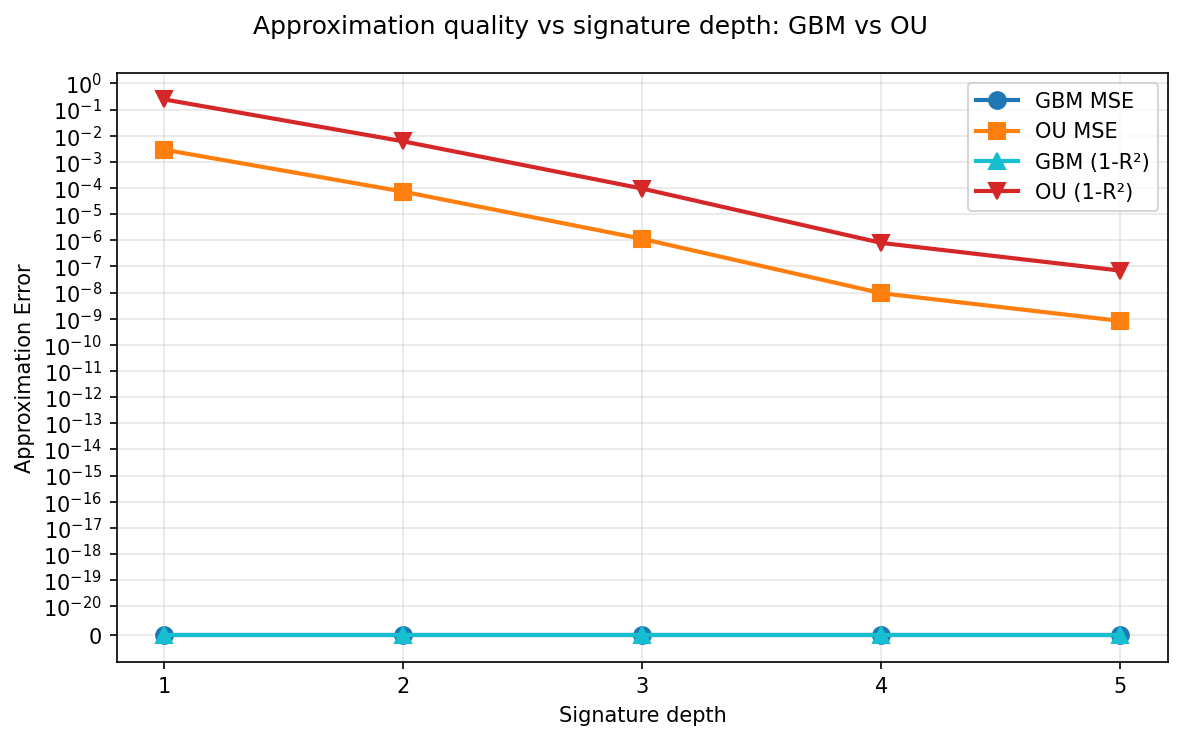
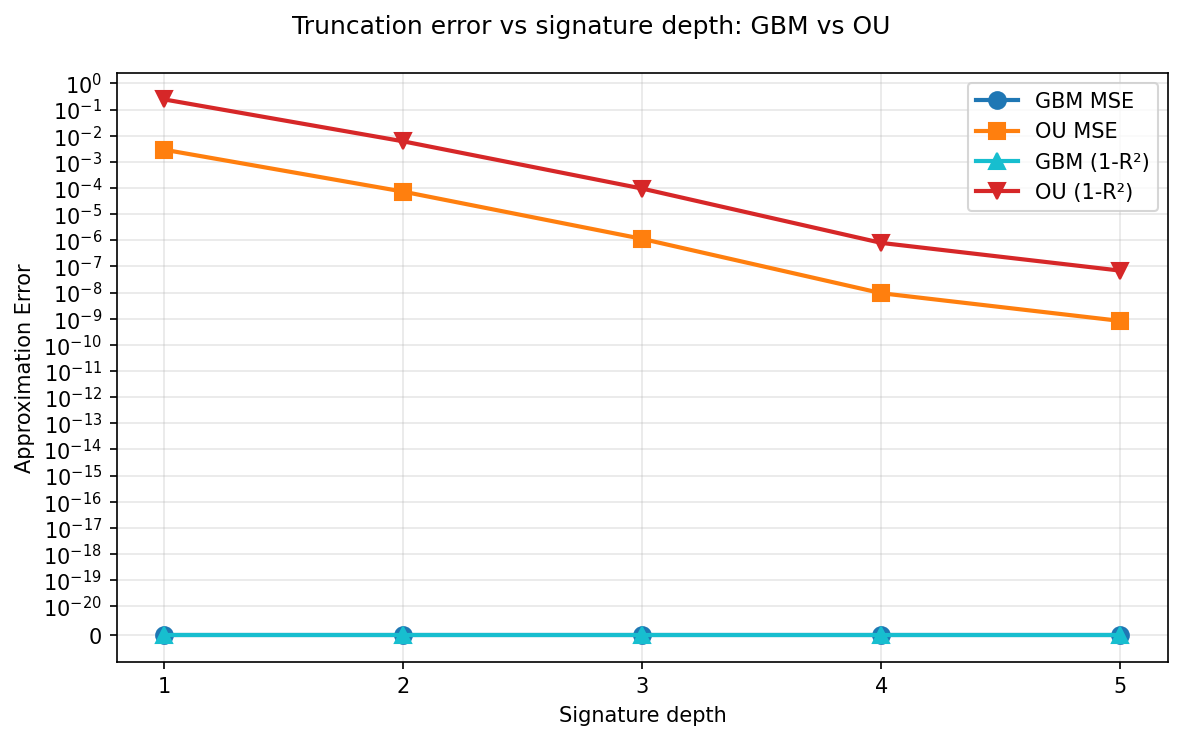
Updated calibrate_sde_example.py and train_signature_model.py

Changed region(s): [[0.213, 0.0, 0.7912, 0.0622]]

diff --git a/scripts/train_signature_model.py b/scripts/train_signature_model.py
@@ -1,29 +1,16 @@
 # scripts/train_signature_model.py
-import numpy as np
-
 from output import SAVE_PATH
-from signature_vol.exact.signature import Signature  # your class file
+from signature_vol.exact.signature import Signature
 
-paths = [
-    np.random.randn(100, 2),  # example 2D paths
-    np.random.randn(120, 2),
-]
-
-signatures = [Signature.from_path(path, level=3) for path in paths]
-
-# Example: access signature array of the first path
-print(signatures[0].array)
-
-
-import iisignature  # type: ignore
-import matplotlib
 import numpy as np
-import yfinance as yf
 from sklearn.linear_model import LinearRegression
-from sklearn.metrics import mean_squared_error, r2_score
 from sklearn.model_selection import TimeSeriesSplit
 from sklearn.pipeline import Pipeline
 from sklearn.preprocessing import StandardScaler
+from sklearn.metrics import mean_squared_error, r2_score
+import yfinance as yf
+
+import matplotlib
 
 matplotlib.use("Agg")
 
@@ -43,6 +30,7 @@ window = 50  # length of path (timesteps)
 horizon = 10  # predict next-horizon realized vol?
 paths = []
 targets = []
+target_dates = []
 for i in range(len(df) - window - horizon + 1):
     segment = df["logret"].values[i : i + window]
     # richer 3D path: returns, abs(returns), cumulative sum
@@ -52,8 +40,11 @@ for i in range(len(df) - window - horizon + 1):
     realized_vol = np.sqrt(np.mean(fut**2))
     targets.append(np.sqrt(np.mean(fut**2)))  # RMSE-style realized vol
     paths.append(path)
+    # Store the date corresponding to this target (end of the forecast horizon)
+    target_dates.append(df["timestamp"].iloc[i + window + horizon - 1])
 
 targets = np.array(targets)
+target_dates = np.array(target_dates)
 
 # --- 3. compute signatures for each path ---
 # --- 3. Predict log-vol instead of vol ---
@@ -69,52 +60,102 @@ import matplotlib.pyplot as plt
 for depth in truncation_levels:
     print(f"\nProcessing truncation level {depth}...")
 
-    # compute signature length needed and create a signature transform
-    sig_dim = paths[0].shape[1]
-    sig_len = iisignature.siglength(sig_dim, depth)
-    X = np.vstack([iisignature.sig(p, depth) for p in paths])
+    # Compute signatures using Signature.from_path
+    signatures = [Signature.from_path(p, depth) for p in paths]
+    X = np.vstack([sig.array for sig in signatures])
 
     # --- 4. Train a model with time-series cross-validation ---
     tscv = TimeSeriesSplit(n_splits=5)
     model = Pipeline([("scale", StandardScaler()), ("clf", LinearRegression())])
 
     mse_scores = []
+    all_predictions = np.full(len(targets), np.nan)
     for train_idx, test_idx in tscv.split(X):
-        model.fit(X[train_idx], targets[train_idx])
-        pred = model.predict(X[test_idx])
+        model.fit(X[train_idx], log_targets[train_idx])
+        pred_log = model.predict(X[test_idx])
+        pred = np.exp(pred_log)
+        all_predictions[test_idx] = pred
         mse_scores.append(mean_squared_error(targets[test_idx], pred))
 
     print(
         f"Truncation level {depth} - CV MSE: {np.mean(mse_scores):.6f}, std: {np.std(mse_scores):.6f}"
     )
 
-    # Final fit on full data
-    model.fit(X, log_targets)
-    pred_log = model.predict(X)
-    pred = np.exp(pred_log)
-
-    # Visualization
-    plt.figure(figsize=(10, 5))
-    plt.xlim(0, 200)
-    plt.plot(targets, label="Actual realized volatility", color="black", linewidth=2)
-    plt.plot(
-        pred,
-        label=f"Predicted volatility (truncation level {depth})",
+    # Visualization: Out-of-sample forecasts from cross-validation
+    fig2, ax2 = plt.subplots(figsize=(12, 6))
+    ax2.plot(
+        target_dates,
+        targets,
+        label="Actual realized volatility",
+        color="black",
+        linewidth=2,
+        alpha=0.7,
+    )
+    ax2.plot(
+        target_dates,
+        all_predictions,
+        label=f"Out-of-sample forecast (truncation level {depth})",
         color="dodgerblue",
         linewidth=2,
         alpha=0.8,
     )
-    plt.xlabel("Time index")
-    plt.ylabel("Volatility")
-    plt.title(
-        f"Signature-based Volatility Model vs Actual Volatility (Truncation Level {depth})"
-    )
-    plt.legend()
-    plt.grid(True, alpha=0.3)
 
-    save_path = SAVE_PATH / f"aapl_pure_data_calibration_level_{depth}.png"
-    plt.savefig(save_path, dpi=150, bbox_inches="tight")
-    print(f"Saved plot to {save_path}")
+    # Mark the fold boundaries with alternating blue shades for training periods
+    fold_sizes = []
+    for train_idx, test_idx in tscv.split(X):
+        fold_sizes.append((train_idx[0], train_idx[-1], test_idx[0], test_idx[-1]))
+
+    # Define two alternating shades of blue
+    blue_colors = ["lightblue", "cornflowerblue"]
+
+    for i, (train_start, train_end, test_start, test_end) in enumerate(fold_sizes):
+        # Mark the start of each test fold with a dashed line
+        ax2.axvline(
+            x=target_dates[test_start],
+            color="gray",
+            linestyle="--",
+            alpha=0.5,
+            linewidth=1,
+        )
+
+        # Add small tick marks at the end of each training regime
+        ax2.axvline(
+            x=target_dates[train_end],
+            color="darkblue",
+            linestyle="-",
+            alpha=0.6,
+            linewidth=1.5,
+        )
+
+        color = blue_colors[i % 2]
+        if i == 0:
+            ax2.axvspan(
+                target_dates[train_start],
+                target_dates[train_end],
+                alpha=0.15,
+                color=color,
+                label="Training folds",
+            )
+        else:
+            ax2.axvspan(
+                target_dates[train_start],
+                target_dates[train_end],
+                alpha=0.15,
+                color=color,
+            )
+
+    ax2.set_xlabel("Date")
+    ax2.set_ylabel("Volatility")
+    ax2.set_title(
+        f"Out-of-Sample Volatility Forecasts (5-Fold CV, Level {depth})\nMean MSE: {np.mean(mse_scores):.6f}"
+    )
+    ax2.legend()
+    ax2.grid(True, alpha=0.3)
+    fig2.autofmt_xdate()
+
+    save_path_oos = SAVE_PATH / f"aapl_pure_data_forecast_oos_level_{depth}.png"
+    plt.savefig(save_path_oos, dpi=150, bbox_inches="tight")
+    print(f"Saved out-of-sample forecast plot to {save_path_oos}")
 
 # Approximation quality
 rng = np.random.default_rng(0)
@@ -143,12 +184,8 @@ targets = np.array(targets)
 
 # helper: given depth m, build signature feature matrix
 def build_sig_features(paths, depth):
-    d = paths[0].shape[1]
-    feat_dim = iisignature.siglength(d, depth)
-    X = np.zeros((len(paths), feat_dim))
-    for i, p in enumerate(paths):
-        p = np.asarray(p, dtype=float)  # <--- ensure numeric array
-        X[i, :] = iisignature.sig(p, depth)
+    signatures = [Signature.from_path(p, depth) for p in paths]
+    X = np.vstack([sig.array for sig in signatures])
     return X
 
 

diff --git a/scripts/calibrate_sde_example.py b/scripts/calibrate_sde_example.py
@@ -30,6 +30,7 @@ window = 50
 horizon = 10
 paths = []
 targets = []
+target_dates = []
 
 for i in range(len(df) - window - horizon + 1):
     segment = df["logret"].values[i : i + window]
@@ -38,8 +39,11 @@ for i in range(len(df) - window - horizon + 1):
     realized_vol = np.sqrt(np.mean(fut**2))
     targets.append(realized_vol)
     paths.append(path)
+    # Store the date corresponding to this target (end of the forecast horizon)
+    target_dates.append(df["timestamp"].iloc[i + window + horizon - 1])
 
 targets = np.array(targets)
+target_dates = np.array(target_dates)
 
 # Compute signatures using calibrate_signature_sde
 eps = 1e-8
@@ -71,39 +75,90 @@ for sig_order in truncation_levels:
     model = Pipeline([("scale", StandardScaler()), ("clf", LinearRegression())])
 
     mse_scores = []
+    all_predictions = np.full(len(targets), np.nan)
     for train_idx, test_idx in tscv.split(X):
-        model.fit(X[train_idx], targets[train_idx])
-        pred = model.predict(X[test_idx])
+        model.fit(X[train_idx], log_targets[train_idx])
+        pred_log = model.predict(X[test_idx])
+        pred = np.exp(pred_log)
+        all_predictions[test_idx] = pred
         mse_scores.append(mean_squared_error(targets[test_idx], pred))
 
     print(
         f"Truncation level {sig_order} - CV MSE: {np.mean(mse_scores):.6f}, std: {np.std(mse_scores):.6f}"
     )
 
-    # Final fit on full data
-    model.fit(X, log_targets)
-    pred_log = model.predict(X)
-    pred = np.exp(pred_log)
-
-    # Visualization
-    plt.figure(figsize=(10, 5))
-    plt.xlim(0, 200)
-    plt.plot(targets, label="Actual realized volatility", color="black", linewidth=2)
-    plt.plot(
-        pred,
-        label=f"Predicted volatility (truncation level {sig_order})",
+    # Visualization: Out-of-sample forecasts from cross-validation
+    fig2, ax2 = plt.subplots(figsize=(12, 6))
+    ax2.plot(
+        target_dates,
+        targets,
+        label="Actual realized volatility",
+        color="black",
+        linewidth=2,
+        alpha=0.7,
+    )
+    ax2.plot(
+        target_dates,
+        all_predictions,
+        label=f"Out-of-sample forecast (truncation level {sig_order})",
         color="dodgerblue",
         linewidth=2,
         alpha=0.8,
     )
-    plt.xlabel("Time index")
-    plt.ylabel("Volatility")
-    plt.title(
-        f"Signature-SDE Volatility Model vs Actual Volatility (Truncation Level {sig_order})"
-    )
-    plt.legend()
-    plt.grid(True, alpha=0.3)
 
-    save_path = SAVE_PATH / f"aapl_signature_calibration_level_{sig_order}.png"
-    plt.savefig(save_path, dpi=150, bbox_inches="tight")
-    print(f"Saved plot to {save_path}")
+    # Mark the fold boundaries with alternating blue shades for training periods
+    fold_sizes = []
+    for train_idx, test_idx in tscv.split(X):
+        fold_sizes.append((train_idx[0], train_idx[-1], test_idx[0], test_idx[-1]))
+
+    # Define two alternating shades of blue
+    blue_colors = ["lightblue", "cornflowerblue"]
+
+    for i, (train_start, train_end, test_start, test_end) in enumerate(fold_sizes):
+        # Mark the start of each test fold with a dashed line
+        ax2.axvline(
+            x=target_dates[test_start],
+            color="gray",
+            linestyle="--",
+            alpha=0.5,
+            linewidth=1,
+        )
+
+        # Add small tick marks at the end of each training regime
+        ax2.axvline(
+            x=target_dates[train_end],
+            color="darkblue",
+            linestyle="-",
+            alpha=0.6,
+            linewidth=1.5,
+        )
+
+        color = blue_colors[i % 2]
+        if i == 0:
+            ax2.axvspan(
+                target_dates[train_start],
+                target_dates[train_end],
+                alpha=0.15,
+                color=color,
+                label="Training folds",
+            )
+        else:
+            ax2.axvspan(
+                target_dates[train_start],
+                target_dates[train_end],
+                alpha=0.15,
+                color=color,
+            )
+
+    ax2.set_xlabel("Date")
+    ax2.set_ylabel("Volatility")
+    ax2.set_title(
+        f"Out-of-Sample Volatility Forecasts (5-Fold CV, Level {sig_order})\nMean MSE: {np.mean(mse_scores):.6f}"
+    )
+    ax2.legend()
+    ax2.grid(True, alpha=0.3)
+    fig2.autofmt_xdate()
+
+    save_path_oos = SAVE_PATH / f"aapl_signature_forecast_oos_level_{sig_order}.png"
+    plt.savefig(save_path_oos, dpi=150, bbox_inches="tight")
+    print(f"Saved out-of-sample forecast plot to {save_path_oos}")

diff --git a/scripts/validate_from_sde.py b/scripts/validate_from_sde.py
@@ -42,7 +42,7 @@ def main():
     print("=" * 70)
     print()
 
-    # Test 1: Geometric Brownian Motion (GBM)
+    # region Test 1: Geometric Brownian Motion (GBM)
     print("Test 1: Geometric Brownian Motion")
     print("-" * 70)
 
@@ -194,8 +194,9 @@ def main():
     print(f"GBM validation plot saved to: {save_path_gbm}")
     plt.close(fig)
     print()
+    # endregion
 
-    # Test 2: Ornstein-Uhlenbeck Process
+    # region Test 2: Ornstein-Uhlenbeck Process
     np.random.seed(42)
     print("Test 2: Ornstein-Uhlenbeck Process")
     print("-" * 70)
@@ -355,9 +356,9 @@ def main():
     plt.savefig(save_path_ou, dpi=150, bbox_inches="tight")
     print(f"OU validation plot saved to: {save_path_ou}")
     plt.close(fig_ou)
-    # ------------------------------------------------------------------
-    # Extra: compare GBM vs OU — MSE and R^2 vs signature depth
-    # ------------------------------------------------------------------
+    # endregion
+
+    # region Test 3: Truncation error comparison (GBM vs OU)
     print()
     print("Comparison: GBM vs OU (MSE and R^2 vs signature depth)")
     print("-" * 70)
@@ -477,12 +478,13 @@ def main():
     ax.legend(loc="upper right")
 
     # Title
-    fig.suptitle("Approximation quality vs signature depth: GBM vs OU", fontsize=12)
+    fig.suptitle("Truncation error vs signature depth: GBM vs OU", fontsize=12)
 
     plt.tight_layout()
     save_path_comp = SAVE_PATH / "compare_gbm_ou_mse_r2_vs_depth.png"
     plt.savefig(save_path_comp, dpi=150, bbox_inches="tight")
     print(f"GBM/OU MSE–R² comparison plot saved to: {save_path_comp}")
+    # endregion
 
 
 if __name__ == "__main__":
